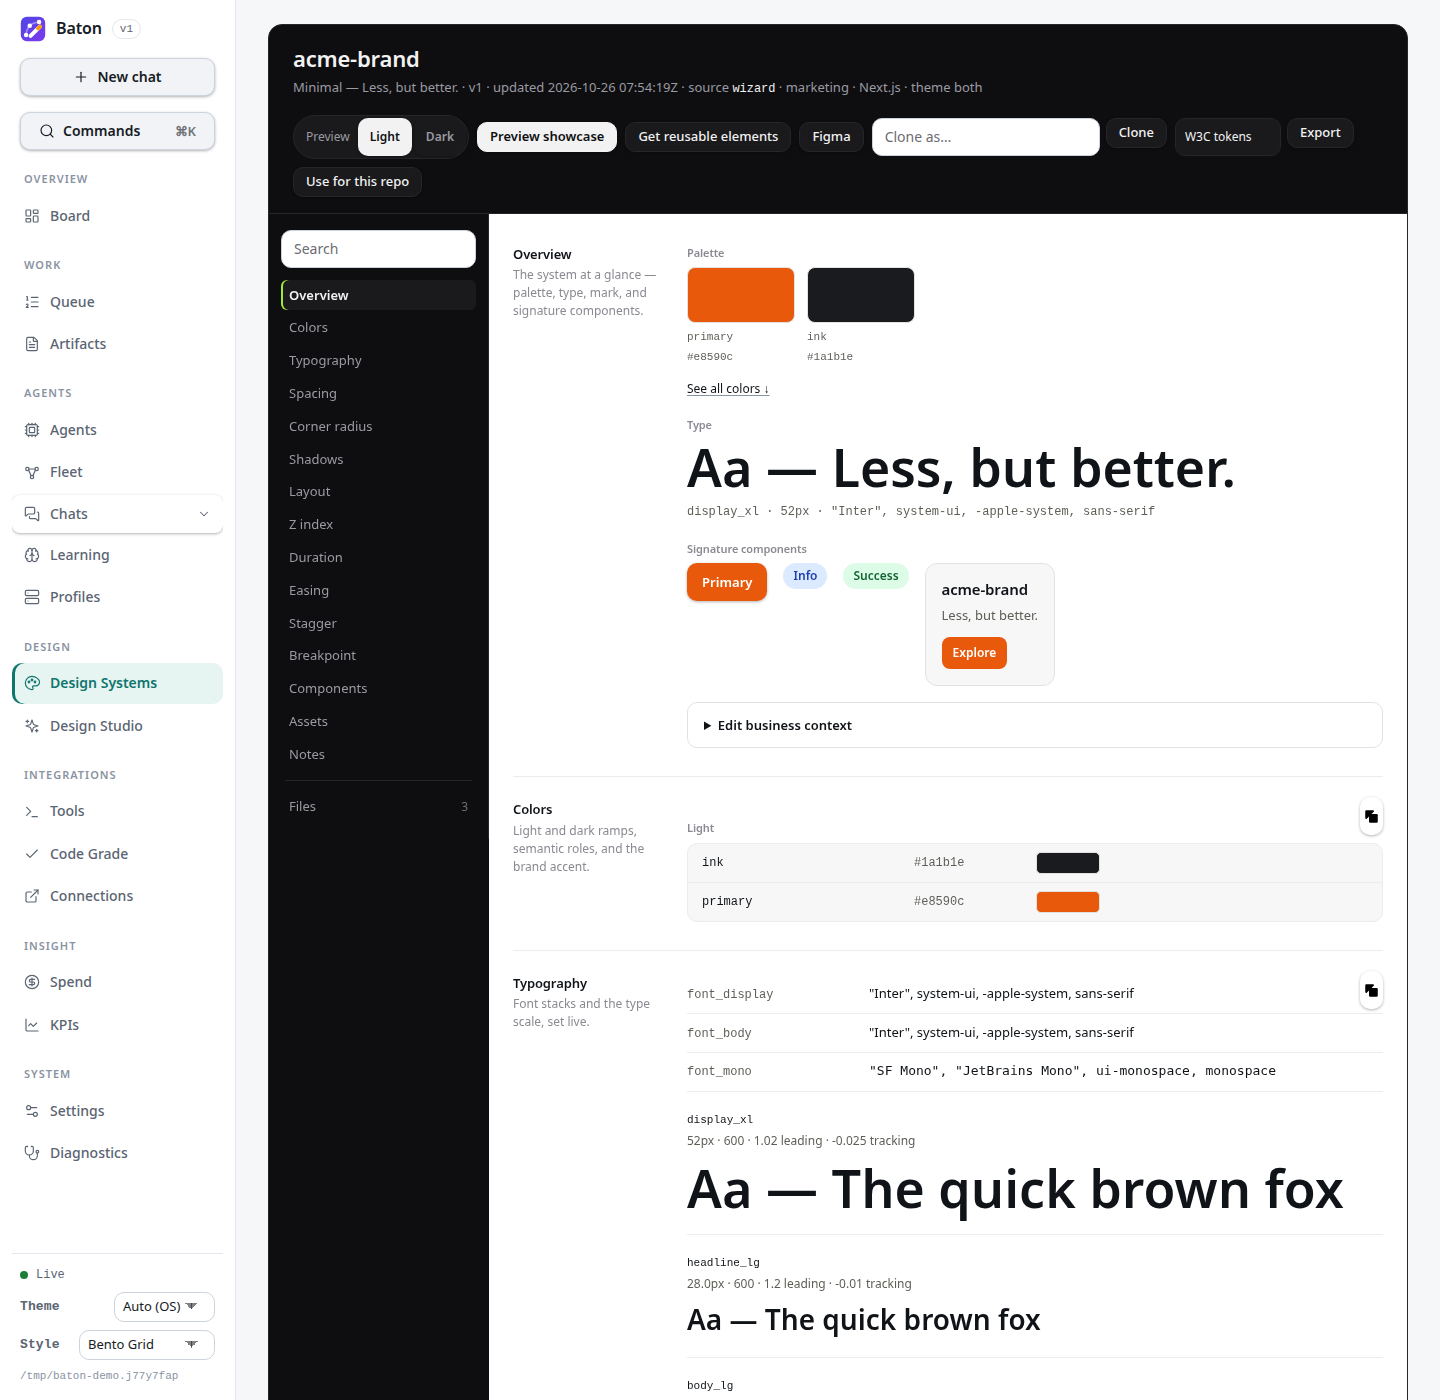
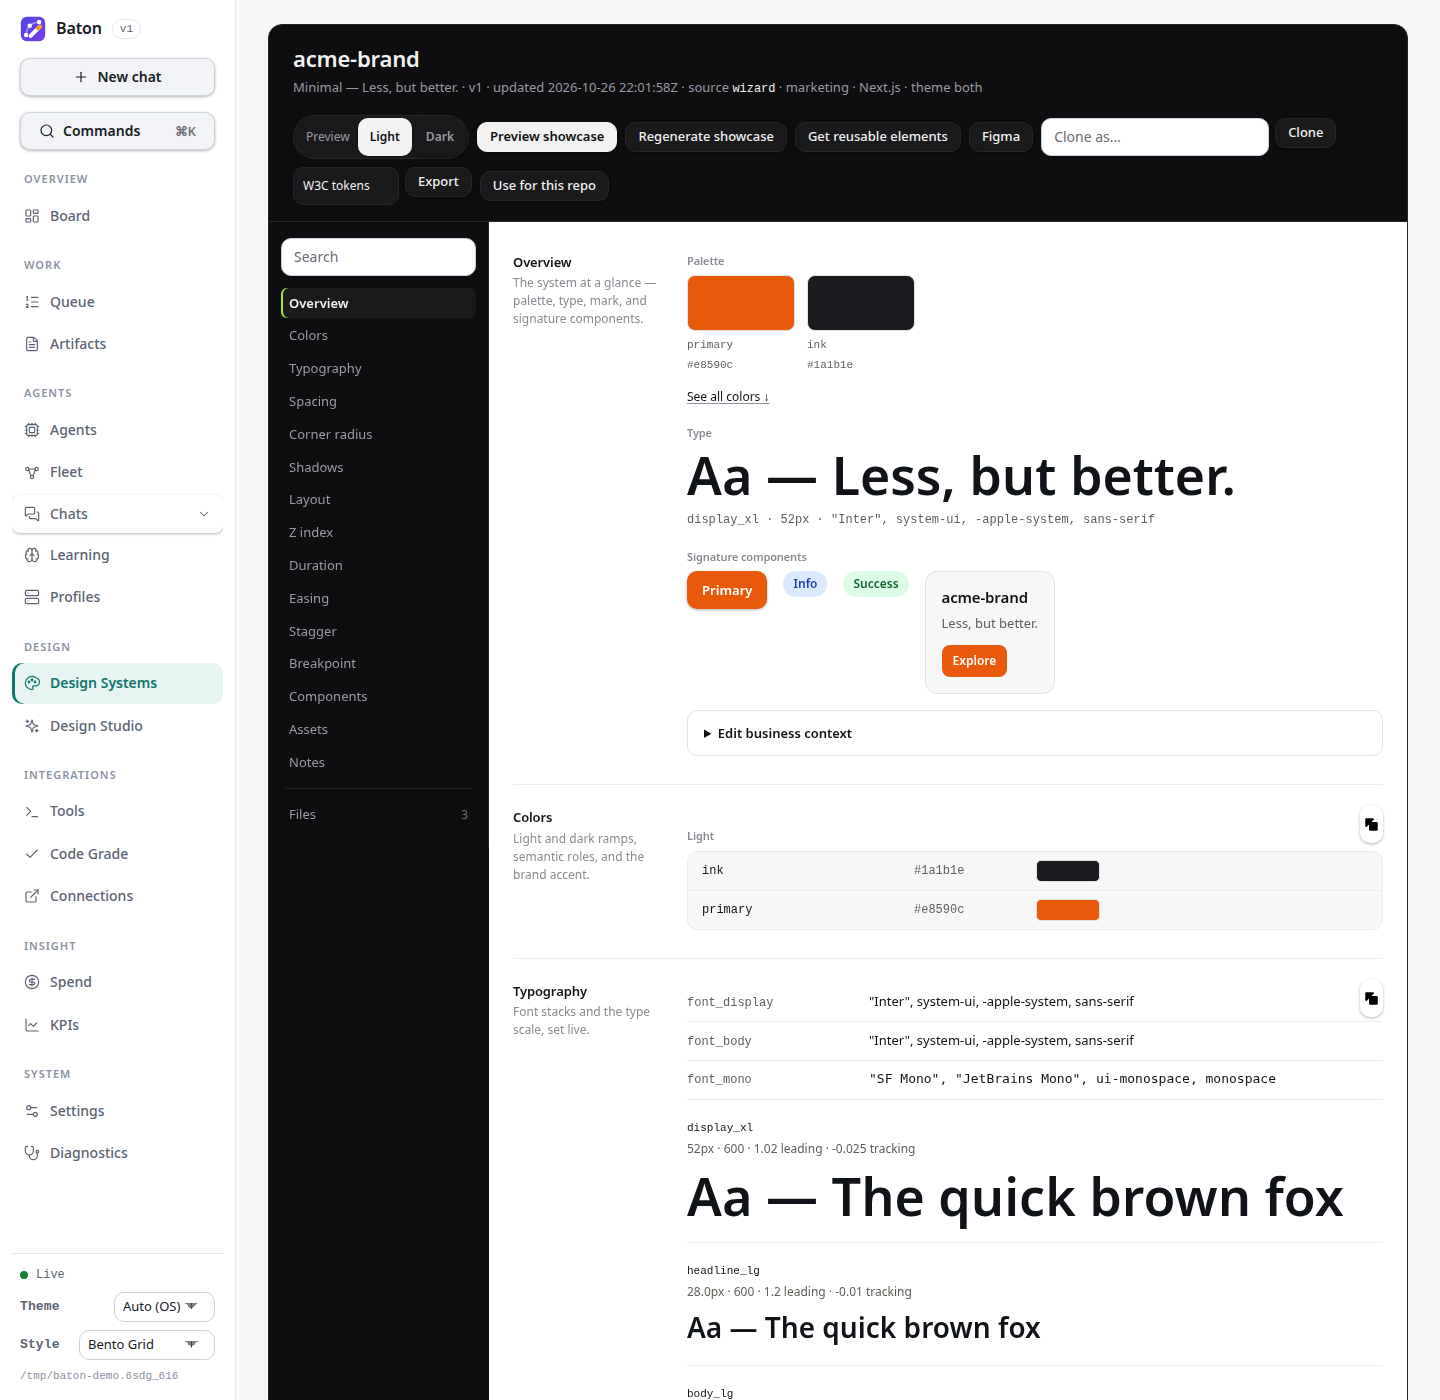
Showcase refresh: regenerate a saved showcase from stored tokens (issue #323) (#324)
A saved showcase.html embeds the generator's CSS at generation time, so
systems saved before a showcase fix (e.g. #322's mobile overflow) keep
serving the stale file while the on-demand render is fixed. Add a visible
'Regenerate showcase' action on the system page (POST
/design-systems/showcase-refresh) that re-renders from the stored tokens
with the current generator and overwrites only showcase.html — tokens,
markdown, meta and every other file are untouched, and the version is not
bumped.

The on-demand render is extracted into _render_showcase_html() so the
refresh writes exactly what the showcase route would render on demand;
the route itself is unchanged apart from using the helper.

diff --git a/src/jev_agent/dashboard/templates/design_system.html b/src/jev_agent/dashboard/templates/design_system.html
@@ -24,6 +24,15 @@
         <button class="ds-preview-btn" type="button" data-preview-theme="dark" aria-pressed="{{ 'true' if preview_theme == 'dark' else 'false' }}">Dark</button>
       </div>
       <a class="btn btn-sm btn-primary" href="/design-systems/{{ name }}/showcase" target="_blank" rel="noopener">Preview showcase</a>
+      {# Issue #323: the saved showcase embeds the generator's CSS at
+         generation time, so a system saved before a showcase fix keeps
+         serving the stale file. Re-render it from the stored tokens with
+         the current generator — tokens, notes and every other file are
+         untouched. #}
+      <form class="inline" method="post" action="/design-systems/showcase-refresh" title="Re-render the saved showcase from this system's stored tokens, with the current generator">
+        {{ csrf_input() }}<input type="hidden" name="name" value="{{ name }}">
+        <button class="btn btn-sm btn-secondary" type="submit">Regenerate showcase</button>
+      </form>
       <a class="btn btn-sm btn-secondary" href="/design-systems/{{ name }}/code">Get reusable elements</a>
       <a class="btn btn-sm btn-secondary" href="/design-systems/{{ name }}/figma">Figma</a>
       {# Issue #289: Clone and Export live in the header now — the page is

diff --git a/src/jev_agent/dashboard/routes_design.py b/src/jev_agent/dashboard/routes_design.py
@@ -66,6 +66,33 @@ from jev_agent.dashboard.security import (
 )
 
 
+def _render_showcase_html(system_name: str) -> str:
+    """Render a system's showcase on demand from its stored tokens + meta.
+
+    The same render the showcase route serves when no saved file exists —
+    and the same render the refresh action writes back over a stale saved
+    file (issue #323), so a refreshed showcase is byte-identical to what
+    the route would render on demand. Raises NotFoundError when the system
+    does not exist.
+    """
+    system = load_library_system(system_name)
+    if system is None:
+        raise NotFoundError(f'no design system named "{system_name}"')
+    meta = _library_meta(system_name)
+    tokens = system.tokens if isinstance(system.tokens, dict) else {}
+    rich = tokens.get("design_tokens")
+    profile_key = _meta_text(meta, "vibe_profile")
+    profile = VIBE_PROFILES.get(profile_key) or vibe_for_keywords(
+        _meta_text(meta, "vibe") or _meta_text(meta, "product_name")
+    )
+    theme = _meta_text(meta, "theme") or "both"
+    if not isinstance(rich, dict):
+        rich = rich_tokens(profile, theme)
+    return render_showcase(
+        system_name, profile, rich, theme, business=BusinessContext.from_meta(meta)
+    )
+
+
 class DesignRoutes(DashboardCore):
     def design_systems_page(self, request: Request) -> Response:
         """The design library: the saved systems, their sources and versions (Tier 0)."""
@@ -103,6 +130,8 @@ class DesignRoutes(DashboardCore):
 
         Serves the saved ``showcase.html``; older systems (saved before the
         showcase existed) get it rendered on demand from their stored tokens.
+        A saved showcase that predates a generator fix stays stale until the
+        system page's "Regenerate showcase" action re-renders it (issue #323).
         """
         name = request.path_params["name"]
         try:
@@ -111,25 +140,10 @@ class DesignRoutes(DashboardCore):
             raise HTTPException(404, "no such design system") from None
 
         def build() -> str:
-            system = load_library_system(system_name)
-            if system is None:
-                raise NotFoundError(f'no design system named "{system_name}"')
             saved = library_system_path(system_name) / "showcase.html"
             if saved.is_file():
                 return saved.read_text(encoding="utf-8")
-            meta = _library_meta(system_name)
-            tokens = system.tokens if isinstance(system.tokens, dict) else {}
-            rich = tokens.get("design_tokens")
-            profile_key = _meta_text(meta, "vibe_profile")
-            profile = VIBE_PROFILES.get(profile_key) or vibe_for_keywords(
-                _meta_text(meta, "vibe") or _meta_text(meta, "product_name")
-            )
-            theme = _meta_text(meta, "theme") or "both"
-            if not isinstance(rich, dict):
-                rich = rich_tokens(profile, theme)
-            return render_showcase(
-                system_name, profile, rich, theme, business=BusinessContext.from_meta(meta)
-            )
+            return _render_showcase_html(system_name)
 
         try:
             html = await run_in_threadpool(build)
@@ -147,6 +161,46 @@ class DesignRoutes(DashboardCore):
                 "Content-Security-Policy": SHOWCASE_CONTENT_SECURITY_POLICY,
             },
         )
+
+    async def design_system_showcase_refresh(self, request: Request) -> Response:
+        """Re-render a system's saved ``showcase.html`` (issue #323).
+
+        The saved file embeds the generator's CSS at generation time, so a
+        system saved before a showcase fix (e.g. #322's mobile overflow)
+        keeps serving the stale file even though the on-demand render is
+        fixed. This action re-renders from the stored tokens with the
+        current generator and overwrites only ``showcase.html`` — tokens,
+        markdown, meta and every other file are untouched, and the version
+        is not bumped (the system itself did not change).
+        """
+        form = await checked_form(request)
+        name = (_text(form, "name") or "").strip()
+        to = f"/design-systems/{name}" if name else "/design-systems"
+        try:
+            system_name = validate_library_name(name)
+        except ValueError as exc:
+            self.flash(request, "error", str(exc))
+            return self.back("/design-systems")
+
+        def refresh() -> None:
+            if load_library_system(system_name) is None:
+                raise JevError(f'no design system named "{system_name}" in the library')
+            html = _render_showcase_html(system_name)
+            (library_system_path(system_name) / "showcase.html").write_bytes(html.encode("utf-8"))
+
+        try:
+            await run_in_threadpool(refresh)
+        except (JevError, NotFoundError, ValueError) as exc:
+            self.flash(request, "error", str(exc))
+            # The system page itself 404s for an unknown name, so the error
+            # is shown on the library — the delete action does the same.
+            return self.back("/design-systems")
+        self.flash(
+            request,
+            "ok",
+            f'regenerated the showcase for "{system_name}" from its stored tokens',
+        )
+        return self.back(to)
 
     def design_code_page(self, request: Request) -> Response:
         """Get reusable elements: per-component code with copy buttons (Tier 0)."""
@@ -431,6 +485,8 @@ class DesignRoutes(DashboardCore):
             return await self.act(request, to, _design_system_business_elements)
         if action == "export":
             return await self.design_system_export(request)
+        if action == "showcase-refresh":
+            return await self.design_system_showcase_refresh(request)
         if action == "delete":
             return await self.design_system_delete(request)
         raise HTTPException(404, "no such action")

diff --git a/tests/unit/test_dashboard_design_systems.py b/tests/unit/test_dashboard_design_systems.py
@@ -352,6 +352,7 @@ def test_actions_require_csrf(client: TestClient, home: Path) -> None:
         ("/design-systems/use", {"name": "acme-brand"}),
         ("/design-systems/clone", {"name": "acme-brand", "new_name": "x"}),
         ("/design-systems/export", {"name": "acme-brand", "format": "w3c"}),
+        ("/design-systems/showcase-refresh", {"name": "acme-brand"}),
         ("/design-systems/delete", {"name": "acme-brand"}),
     ):
         assert client.post(url, data=data).status_code == 403
@@ -361,6 +362,68 @@ def test_actions_require_csrf(client: TestClient, home: Path) -> None:
 def test_unknown_action_404(client: TestClient, home: Path) -> None:
     response = client.post("/design-systems/bogus", data={"csrf_token": _csrf(client), "name": "x"})
     assert response.status_code == 404
+
+
+# ---- showcase refresh (issue #323) ---------------------------------------------------------
+
+_STALE_SHOWCASE = "<html><head><title>acme-brand</title></head><body>stale showcase</body></html>"
+
+
+def test_showcase_refresh_rewrites_stale_saved_showcase(client: TestClient, home: Path) -> None:
+    """Issue #323: a system saved before the #322 showcase CSS fix keeps
+    serving its stale saved file — the refresh re-renders it with the
+    current generator, touches nothing else, and matches the on-demand
+    render byte for byte."""
+    _seed("acme-brand")
+    system_path = library_system_path("acme-brand")
+    (system_path / "showcase.html").write_text(_STALE_SHOWCASE, encoding="utf-8")
+    tokens_before = (system_path / "tokens.json").read_bytes()
+    meta_before = (system_path / "meta.json").read_bytes()
+    # The stale file is what the showcase route serves, as-is.
+    assert client.get("/design-systems/acme-brand/showcase").text == _STALE_SHOWCASE
+
+    response = _post(client, "/design-systems/showcase-refresh", {"name": "acme-brand"})
+    assert response.status_code == 200
+    assert 'regenerated the showcase for "acme-brand"' in _visible(response)
+
+    refreshed = (system_path / "showcase.html").read_text(encoding="utf-8")
+    assert refreshed != _STALE_SHOWCASE
+    assert "@media(max-width:720px)" in refreshed  # the #322 mobile fix
+    assert "clamp(" in refreshed  # the #322 type-specimen fix
+    # Tokens, meta and the version are untouched — only showcase.html moves.
+    assert (system_path / "tokens.json").read_bytes() == tokens_before
+    assert (system_path / "meta.json").read_bytes() == meta_before
+    # The refreshed file is exactly what the route renders on demand.
+    (system_path / "showcase.html").unlink()
+    assert client.get("/design-systems/acme-brand/showcase").text == refreshed
+
+
+def test_showcase_refresh_creates_showcase_when_missing(client: TestClient, home: Path) -> None:
+    """Issue #323: a system with no saved showcase at all gets one written."""
+    _seed("acme-brand")
+    system_path = library_system_path("acme-brand")
+    assert not (system_path / "showcase.html").exists()
+    response = _post(client, "/design-systems/showcase-refresh", {"name": "acme-brand"})
+    assert response.status_code == 200
+    assert 'regenerated the showcase for "acme-brand"' in _visible(response)
+    saved = (system_path / "showcase.html").read_text(encoding="utf-8")
+    assert "@media(max-width:720px)" in saved
+
+
+def test_showcase_refresh_unknown_system_flashes_error(client: TestClient, home: Path) -> None:
+    response = _post(client, "/design-systems/showcase-refresh", {"name": "nope"})
+    assert response.status_code == 200
+    assert 'no design system named "nope"' in _visible(response)
+
+
+def test_detail_header_offers_showcase_refresh(client: TestClient, home: Path) -> None:
+    """Issue #323: the refresh is a visible action in the system page
+    header, next to Preview showcase — browser-first, no terminal."""
+    _seed("acme-brand")
+    page = client.get("/design-systems/acme-brand")
+    assert page.status_code == 200
+    assert 'action="/design-systems/showcase-refresh"' in page.text
+    assert "Regenerate showcase" in page.text
 
 
 # ---- redesign (issue #285) ---------------------------------------------------------------
